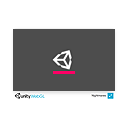
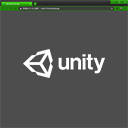
Update WebGLTemplates.

diff --git a/Assets/WebGLTemplates/SimpleWindow/TemplateData/style.css b/Assets/WebGLTemplates/SimpleWindow/TemplateData/style.css
@@ -1,0 +1,18 @@
+.webgl-content * {border: 0; margin: 0; padding: 0}
+.webgl-content {position: absolute; top: 50%; left: 50%; -webkit-transform: translate(-50%, -50%); transform: translate(-50%, -50%);}
+
+.webgl-content .logo, .progress {position: absolute; left: 50%; top: 50%; -webkit-transform: translate(-50%, -50%); transform: translate(-50%, -50%);}
+.webgl-content .logo {background: url('progressLogo.Light.png') no-repeat center / contain; width: 154px; height: 130px;}
+.webgl-content .progress {height: 18px; width: 141px; margin-top: 90px;}
+.webgl-content .progress .empty {background: url('progressEmpty.Light.png') no-repeat right / cover; float: right; width: 100%; height: 100%; display: inline-block;}
+.webgl-content .progress .full {background: url('progressFull.Light.png') no-repeat left / cover; float: left; width: 0%; height: 100%; display: inline-block;}
+
+.webgl-content .logo.Dark {background-image: url('progressLogo.Dark.png');}
+.webgl-content .progress.Dark .empty {background-image: url('progressEmpty.Dark.png');}
+.webgl-content .progress.Dark .full {background-image: url('progressFull.Dark.png');}
+
+.webgl-content .footer {margin-top: 5px; height: 38px; line-height: 38px; font-family: Helvetica, Verdana, Arial, sans-serif; font-size: 18px;}
+.webgl-content .footer .webgl-logo, .title, .fullscreen {height: 100%; display: inline-block; background: transparent center no-repeat;}
+.webgl-content .footer .webgl-logo {background-image: url('webgl-logo.png'); width: 204px; float: left;}
+.webgl-content .footer .title {margin-right: 10px; float: right;}
+.webgl-content .footer .fullscreen {background-image: url('fullscreen.png'); width: 38px; float: right;}

diff --git a/Assets/WebGLTemplates/SimpleWindow/TemplateData/UnityProgress.js b/Assets/WebGLTemplates/SimpleWindow/TemplateData/UnityProgress.js
@@ -1,0 +1,25 @@
+function UnityProgress(unityInstance, progress) {
+  if (!unityInstance.Module)
+    return;
+  /*if (!unityInstance.logo) {
+    unityInstance.logo = document.createElement("div");
+    unityInstance.logo.className = "logo " + unityInstance.Module.splashScreenStyle;
+    unityInstance.container.appendChild(unityInstance.logo);
+  }*/
+  if (!unityInstance.progress) {    
+    unityInstance.progress = document.createElement("div");
+    unityInstance.progress.className = "progress " + unityInstance.Module.splashScreenStyle;
+    unityInstance.progress.empty = document.createElement("div");
+    unityInstance.progress.empty.className = "empty";
+    unityInstance.progress.appendChild(unityInstance.progress.empty);
+    unityInstance.progress.full = document.createElement("div");
+    unityInstance.progress.full.className = "full";
+    unityInstance.progress.appendChild(unityInstance.progress.full);
+    unityInstance.container.appendChild(unityInstance.progress);
+  }
+  unityInstance.progress.full.style.width = (100 * progress) + "%";
+  unityInstance.progress.empty.style.width = (100 * (1 - progress)) + "%";
+  if (progress == 1)
+    //unityInstance.logo.style.display = unityInstance.progress.style.display = "none";
+    unityInstance.progress.style.display = "none";
+}

diff --git a/Assets/WebGLTemplates/SimpleWindow/index.html b/Assets/WebGLTemplates/SimpleWindow/index.html
@@ -1,4 +1,4 @@
-<!DOCTYPE html>
+<!DOCTYPE html>
 <html lang="en-us">
   <head>
     <meta charset="utf-8">
@@ -14,13 +14,12 @@
   </head>
   <body>
     <div class="webgl-content">
-      <!--<div id="unityContainer" style="width: %UNITY_WIDTH%px; height: %UNITY_HEIGHT%px"></div> -->
-      <div id="unityContainer"></div>
-      <!--<div class="footer">
-          <div class="webgl-logo"></div>
-          <div class="fullscreen" onclick="unityInstance.SetFullscreen(1)"></div>
-          <div class="title">%UNITY_WEB_NAME%</div>
-      </div>-->
+      <div id="unityContainer" style="width: %UNITY_WIDTH%px; height: %UNITY_HEIGHT%px"></div>
+      <div class="footer">
+        <!--<div class="webgl-logo"></div>-->
+        <div class="fullscreen" onclick="unityInstance.SetFullscreen(1)"></div>
+        <!--<div class="title">%UNITY_WEB_NAME%</div>-->
+      </div>
     </div>
   </body>
 </html>
